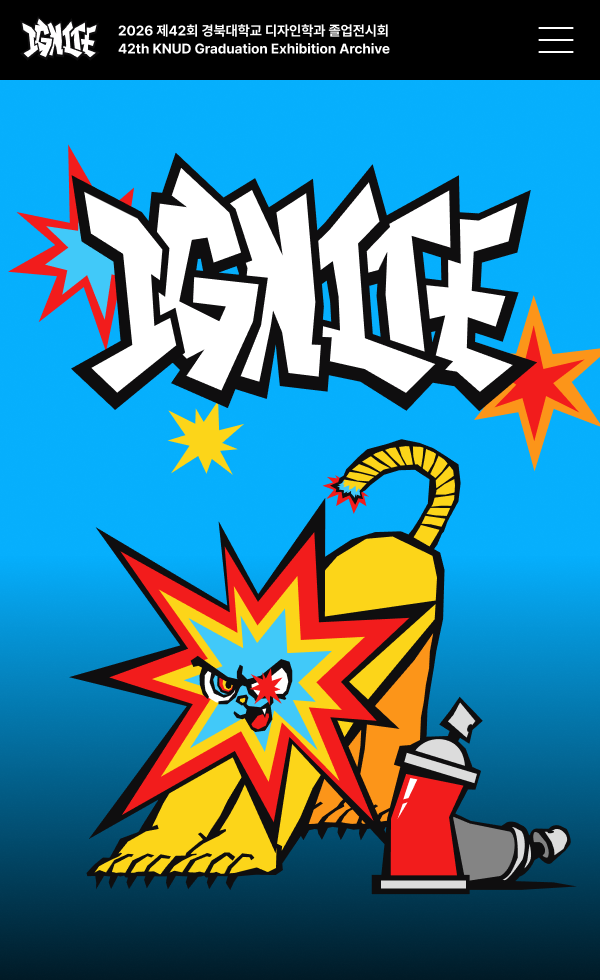
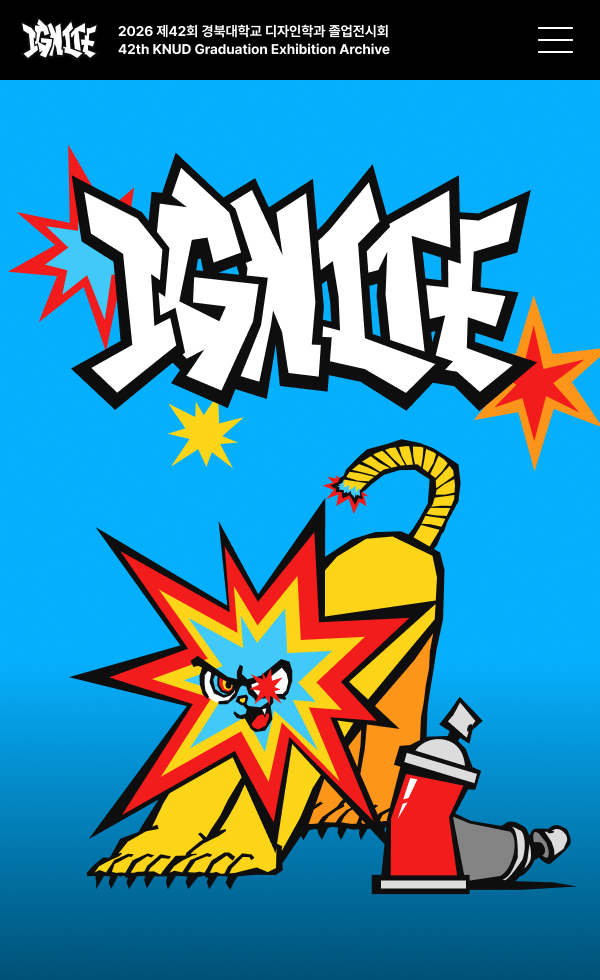
fix(main): 모바일 Hero 하단 배경과 최신 Figma 프레임을 동기화
변경 내용:
- 400px·600px·1020px Hero Frame 이미지를 최신 Figma 내보내기 결과로 교체
- 이미지 하단 및 Hero 배경을 #005176으로 통일
- 400px Frame의 400×860px 비율에 맞춰 Hero와 아트워크 높이를 조정

변경 이유:
- 기존 Frame 하단 색 #001A26과 페이지 배경의 차이로 모바일·태블릿에서 가로 경계선처럼 보이던 현상을 제거하기 위해

diff --git a/src/components/main/main-artwork.tsx b/src/components/main/main-artwork.tsx
@@ -5,7 +5,7 @@ const artwork = [
   { className: "hidden min-[1020.1px]:max-[1350.1px]:block", height: "66.6667vw", left: 0, src: "/assets/figma/main-frame-1350.png", top: "-8.8889vw", width: "100vw" },
   { className: "hidden min-[600.1px]:max-[1020.1px]:block", height: "134.3137vw", left: 0, src: "/assets/figma/main-frame-1020.png", top: "-11.7647vw", width: "100vw" },
   { className: "hidden min-[400.1px]:max-[600.1px]:block", height: "163.3333vw", left: 0, src: "/assets/figma/main-frame-600.png", top: "-13.3333vw", width: "100vw" },
-  { className: "hidden max-[400.1px]:block", height: "220vw", left: 0, src: "/assets/figma/main-frame-400.png", top: "-15vw", width: "100vw" },
+  { className: "hidden max-[400.1px]:block", height: "215vw", left: 0, src: "/assets/figma/main-frame-400.png", top: "-15vw", width: "100vw" },
 ];
 
 export function MainArtwork() {

diff --git a/src/styles/globals.css b/src/styles/globals.css
@@ -44,7 +44,8 @@
 }
 
 .main-hero {
-  background: linear-gradient(180deg, #06affd 0%, #06affd 67.523%, #005176 100%);
+  /* Figma Frame PNG의 하단 색과 일치시켜 이미지 종료 후에도 경계가 생기지 않게 한다. */
+  background: #005176;
 }
 
 @media (prefers-reduced-motion: reduce) {

diff --git a/src/styles/tokens.css b/src/styles/tokens.css
@@ -118,7 +118,7 @@
     --header-logo-height: 2.1875rem;
     --header-brand-gap: 0.625rem;
     --header-title-size: 0.625rem;
-    --main-hero-height: 205vw;
+    --main-hero-height: 200vw;
     --header-menu-size: 1.875rem;
     --footer-height: 10rem;
     --footer-padding-y: 1.5625rem;

diff --git a/docs/design/2026-08-06-main-page.md b/docs/design/2026-08-06-main-page.md
@@ -39,6 +39,7 @@
 - 각 기준 Frame이 적용되는 구간에서는 원본 Frame의 가로·세로·상단 잘림값과 Hero 높이를 동일한 `vw` 비율로 함께 축소한다. 따라서 기준 폭보다 좁아질 때 아트워크가 가로만 잘리거나 세로 비율이 유지되지 않는 상태를 방지한다. 기준 Frame이 전환되는 1350px·1020px·600px·400px에서는 각 Figma 원본 규격을 우선한다.
 - Header의 전체 메뉴는 Figma Web→Tab 기준인 1350px 이상에서만 표시한다. 1350px 미만에서는 48px 메뉴 버튼으로 즉시 전환해 좌측 로고와 전시 제목이 좁아지거나 세 줄로 줄바꿈되는 것을 방지한다.
 - 모바일 기기마다 다른 세로 뷰포트에서는 Hero의 최소 높이를 `100dvh - Header 높이`로 보장한다. Figma 기준 Frame보다 세로가 긴 경우에도 다음 영역의 하늘색 배경이 노출되지 않고, Hero의 어두운 하단 그라데이션이 화면 끝까지 이어진다.
-- 480px 이하의 넓은 모바일부터 Header를 60px·로고 60×35px·제목 10px·메뉴 30px 규격으로 전환한다. 360px 이하의 소형 모바일에서는 Header를 추가로 50px·로고 50×29.17px·제목 8px로 축소한다. 두 제목 줄은 각각 줄바꿈하지 않아 좁은 브라우저·확대 환경에서도 Header가 늘어나지 않는다. Hero의 배경색은 원본 Frame 하단과 같은 `#001A27`로 고정해 원본 이미지가 끝난 뒤에도 그림자 경계가 생기지 않게 한다.
+- 480px 이하의 넓은 모바일부터 Header를 60px·로고 60×35px·제목 10px·메뉴 30px 규격으로 전환한다. 360px 이하의 소형 모바일에서는 Header를 추가로 50px·로고 50×29.17px·제목 8px로 축소한다. 두 제목 줄은 각각 줄바꿈하지 않아 좁은 브라우저·확대 환경에서도 Header가 늘어나지 않는다. Hero와 문서 배경은 최신 Figma Frame 하단과 같은 `#005176`로 고정해 원본 이미지가 끝난 뒤에도 그림자 경계가 생기지 않게 한다. 400px Figma Frame은 400×860px이므로 Header를 제외한 Hero 높이를 `200vw`로 유지한다.
+- 모바일 Header는 Figma 노드 `1157:22758` 기준으로 좌우 10px 안전 여백과 30px 햄버거 버튼을 사용한다. 버튼 내부 선은 20.625px로 제한하고, 600px 이하에서는 브랜드 영역을 `flex: 1`로 축소해 제목이 길어져도 메뉴 버튼이 화면 밖으로 밀리지 않도록 한다. 이 중간 폭 보간은 Figma의 400px Mobile Frame과 실제 기기 폭 사이에서 버튼 안전 여백을 보장하기 위한 구현 규칙이다.
 - Hero의 정밀 포인터 환경에서는 Figma 노드 `1249:34492`의 캐릭터 SVG를 포인터 중심에 표시하고 기본 커서를 숨긴다. 커서는 80px×120px부터 123.64px×184.96px까지 동일 비율로 반응형 확대한다. 터치 및 키보드 환경은 기본 동작을 유지한다.
 - Hero의 정밀 포인터 환경에서는 좌클릭·드래그 경로에 노란색 스프레이 입자를 Canvas 단일 레이어로 표시한다. 스탬프는 12px 간격으로 보간하고 3초간 유지한 뒤 1초 동안 투명해지며, 최대 180개만 보관한다. 캔버스 해상도는 기기 픽셀 비율 2배로 제한하고, 스프레이가 남아 있거나 입력 중일 때만 `requestAnimationFrame`을 실행한다. 터치·키보드·`prefers-reduced-motion` 환경에서는 이 효과를 표시하지 않는다.
